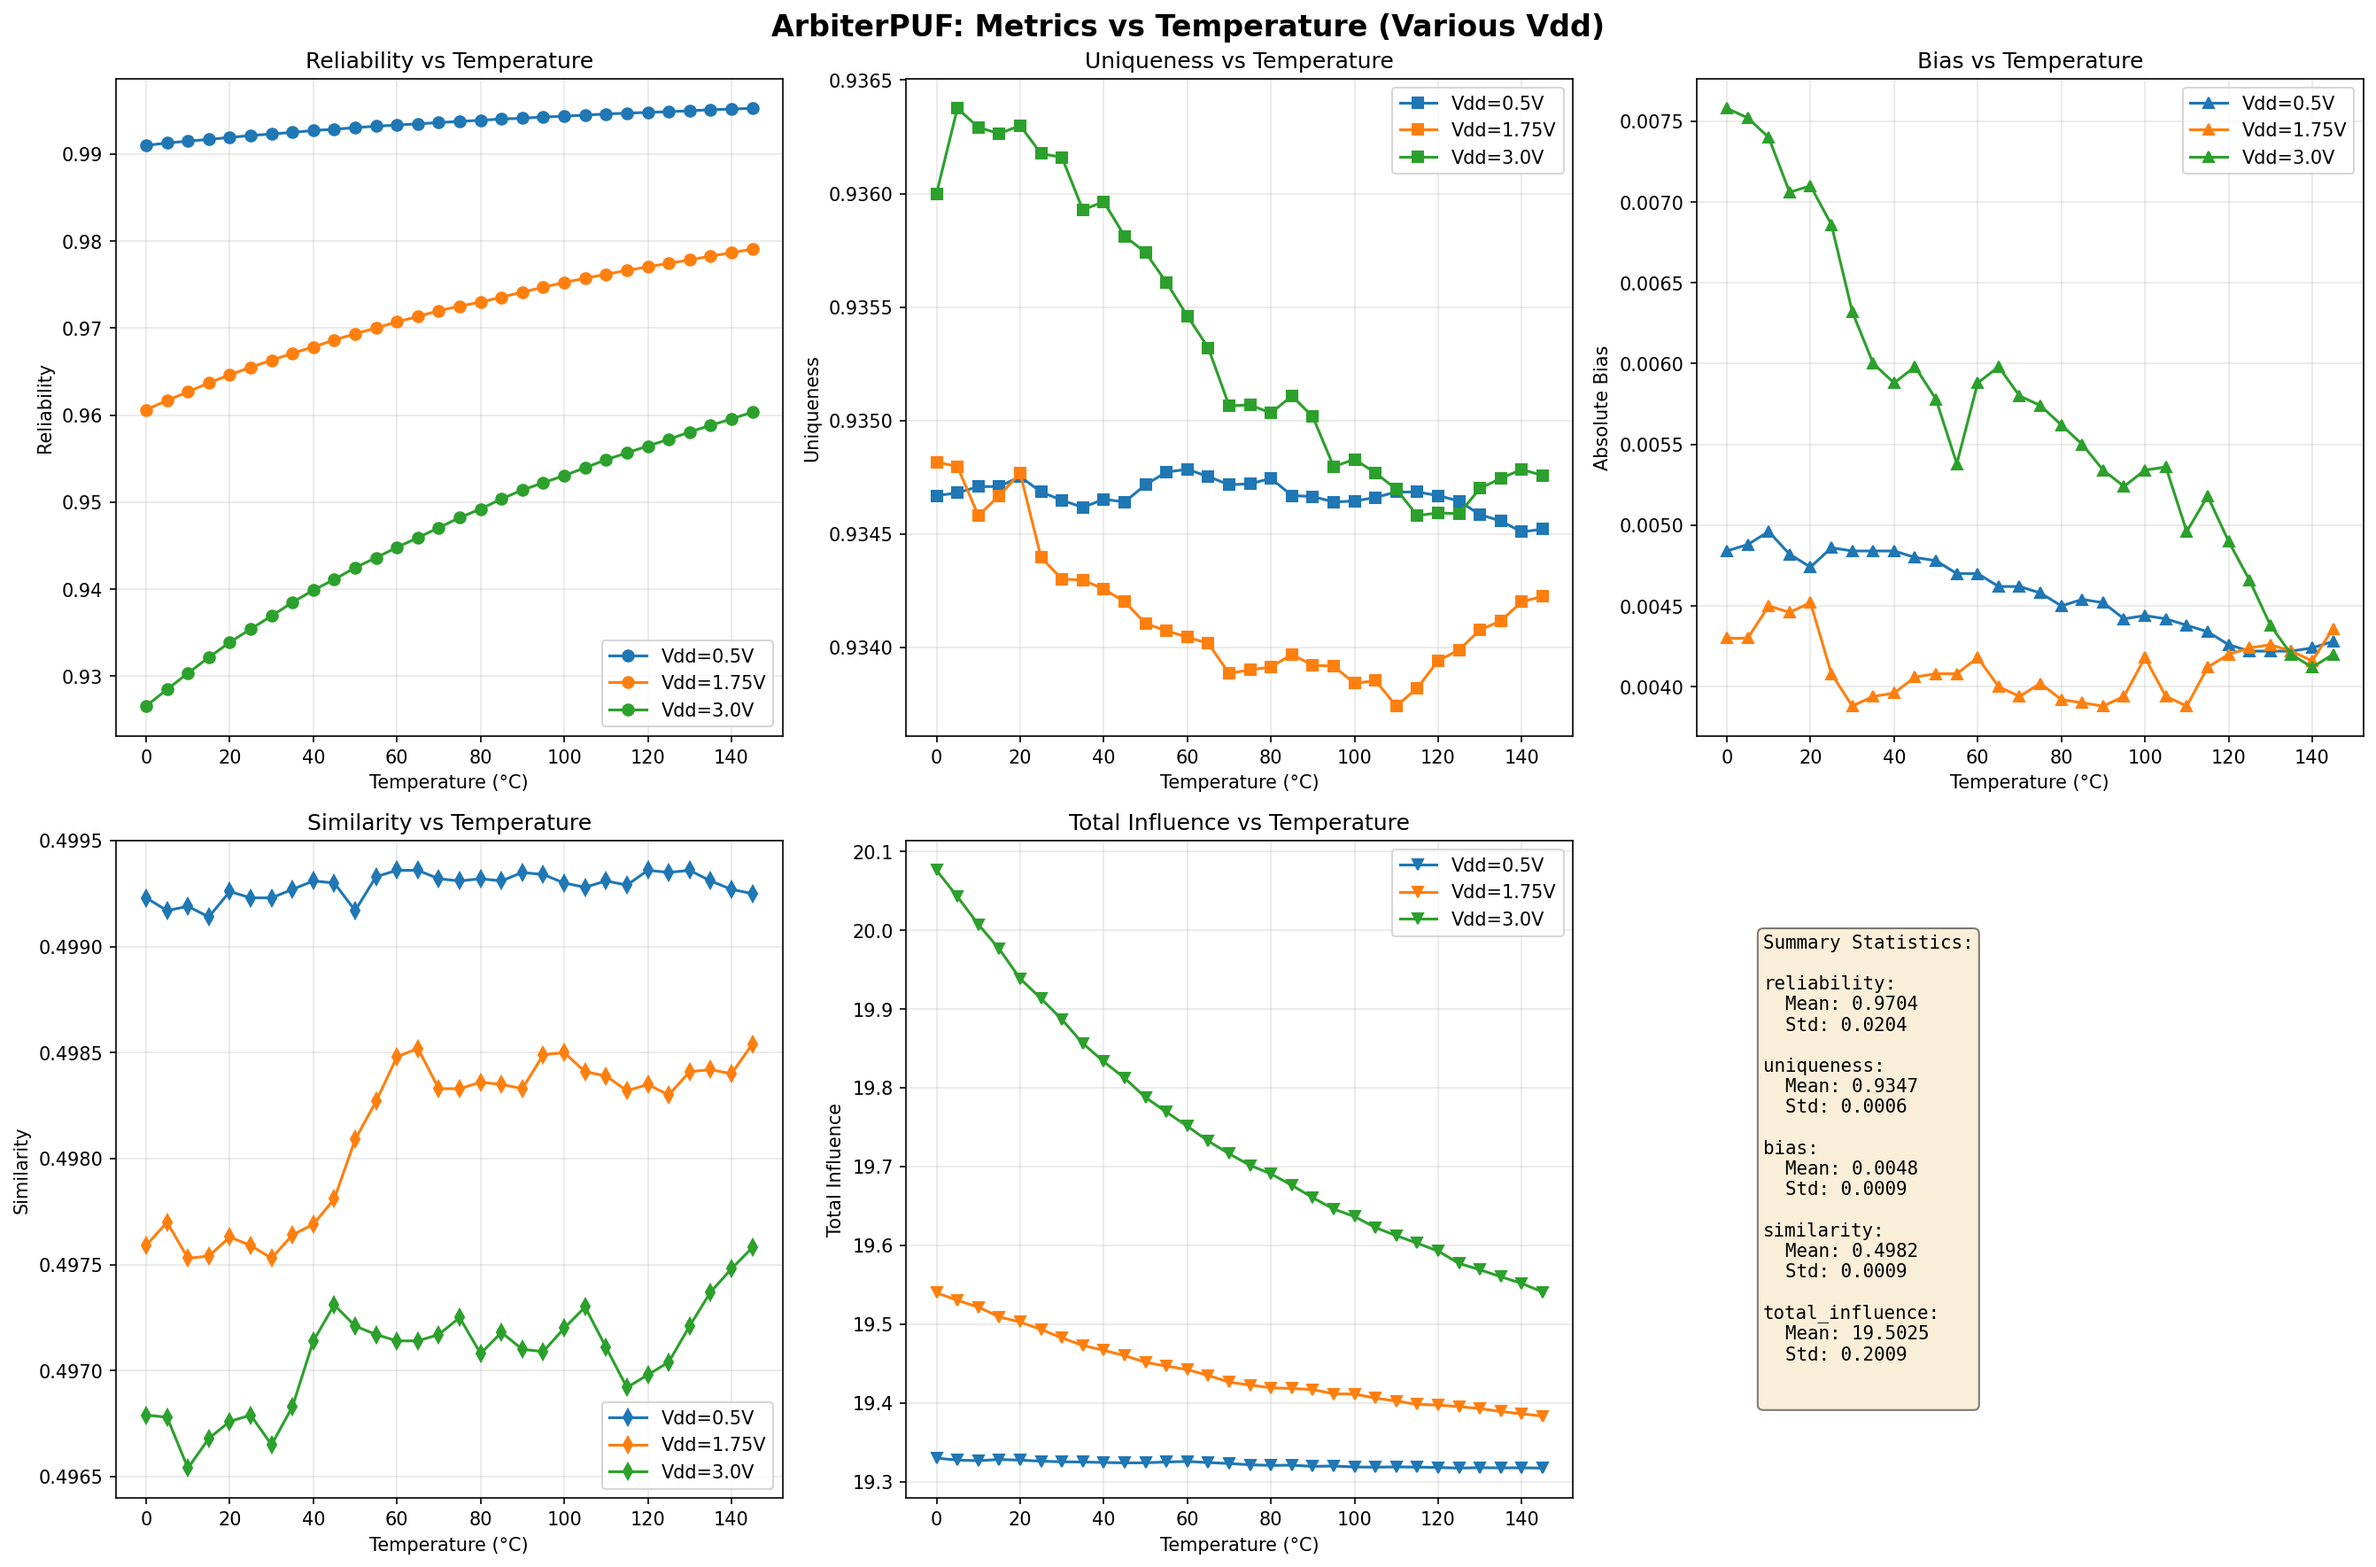
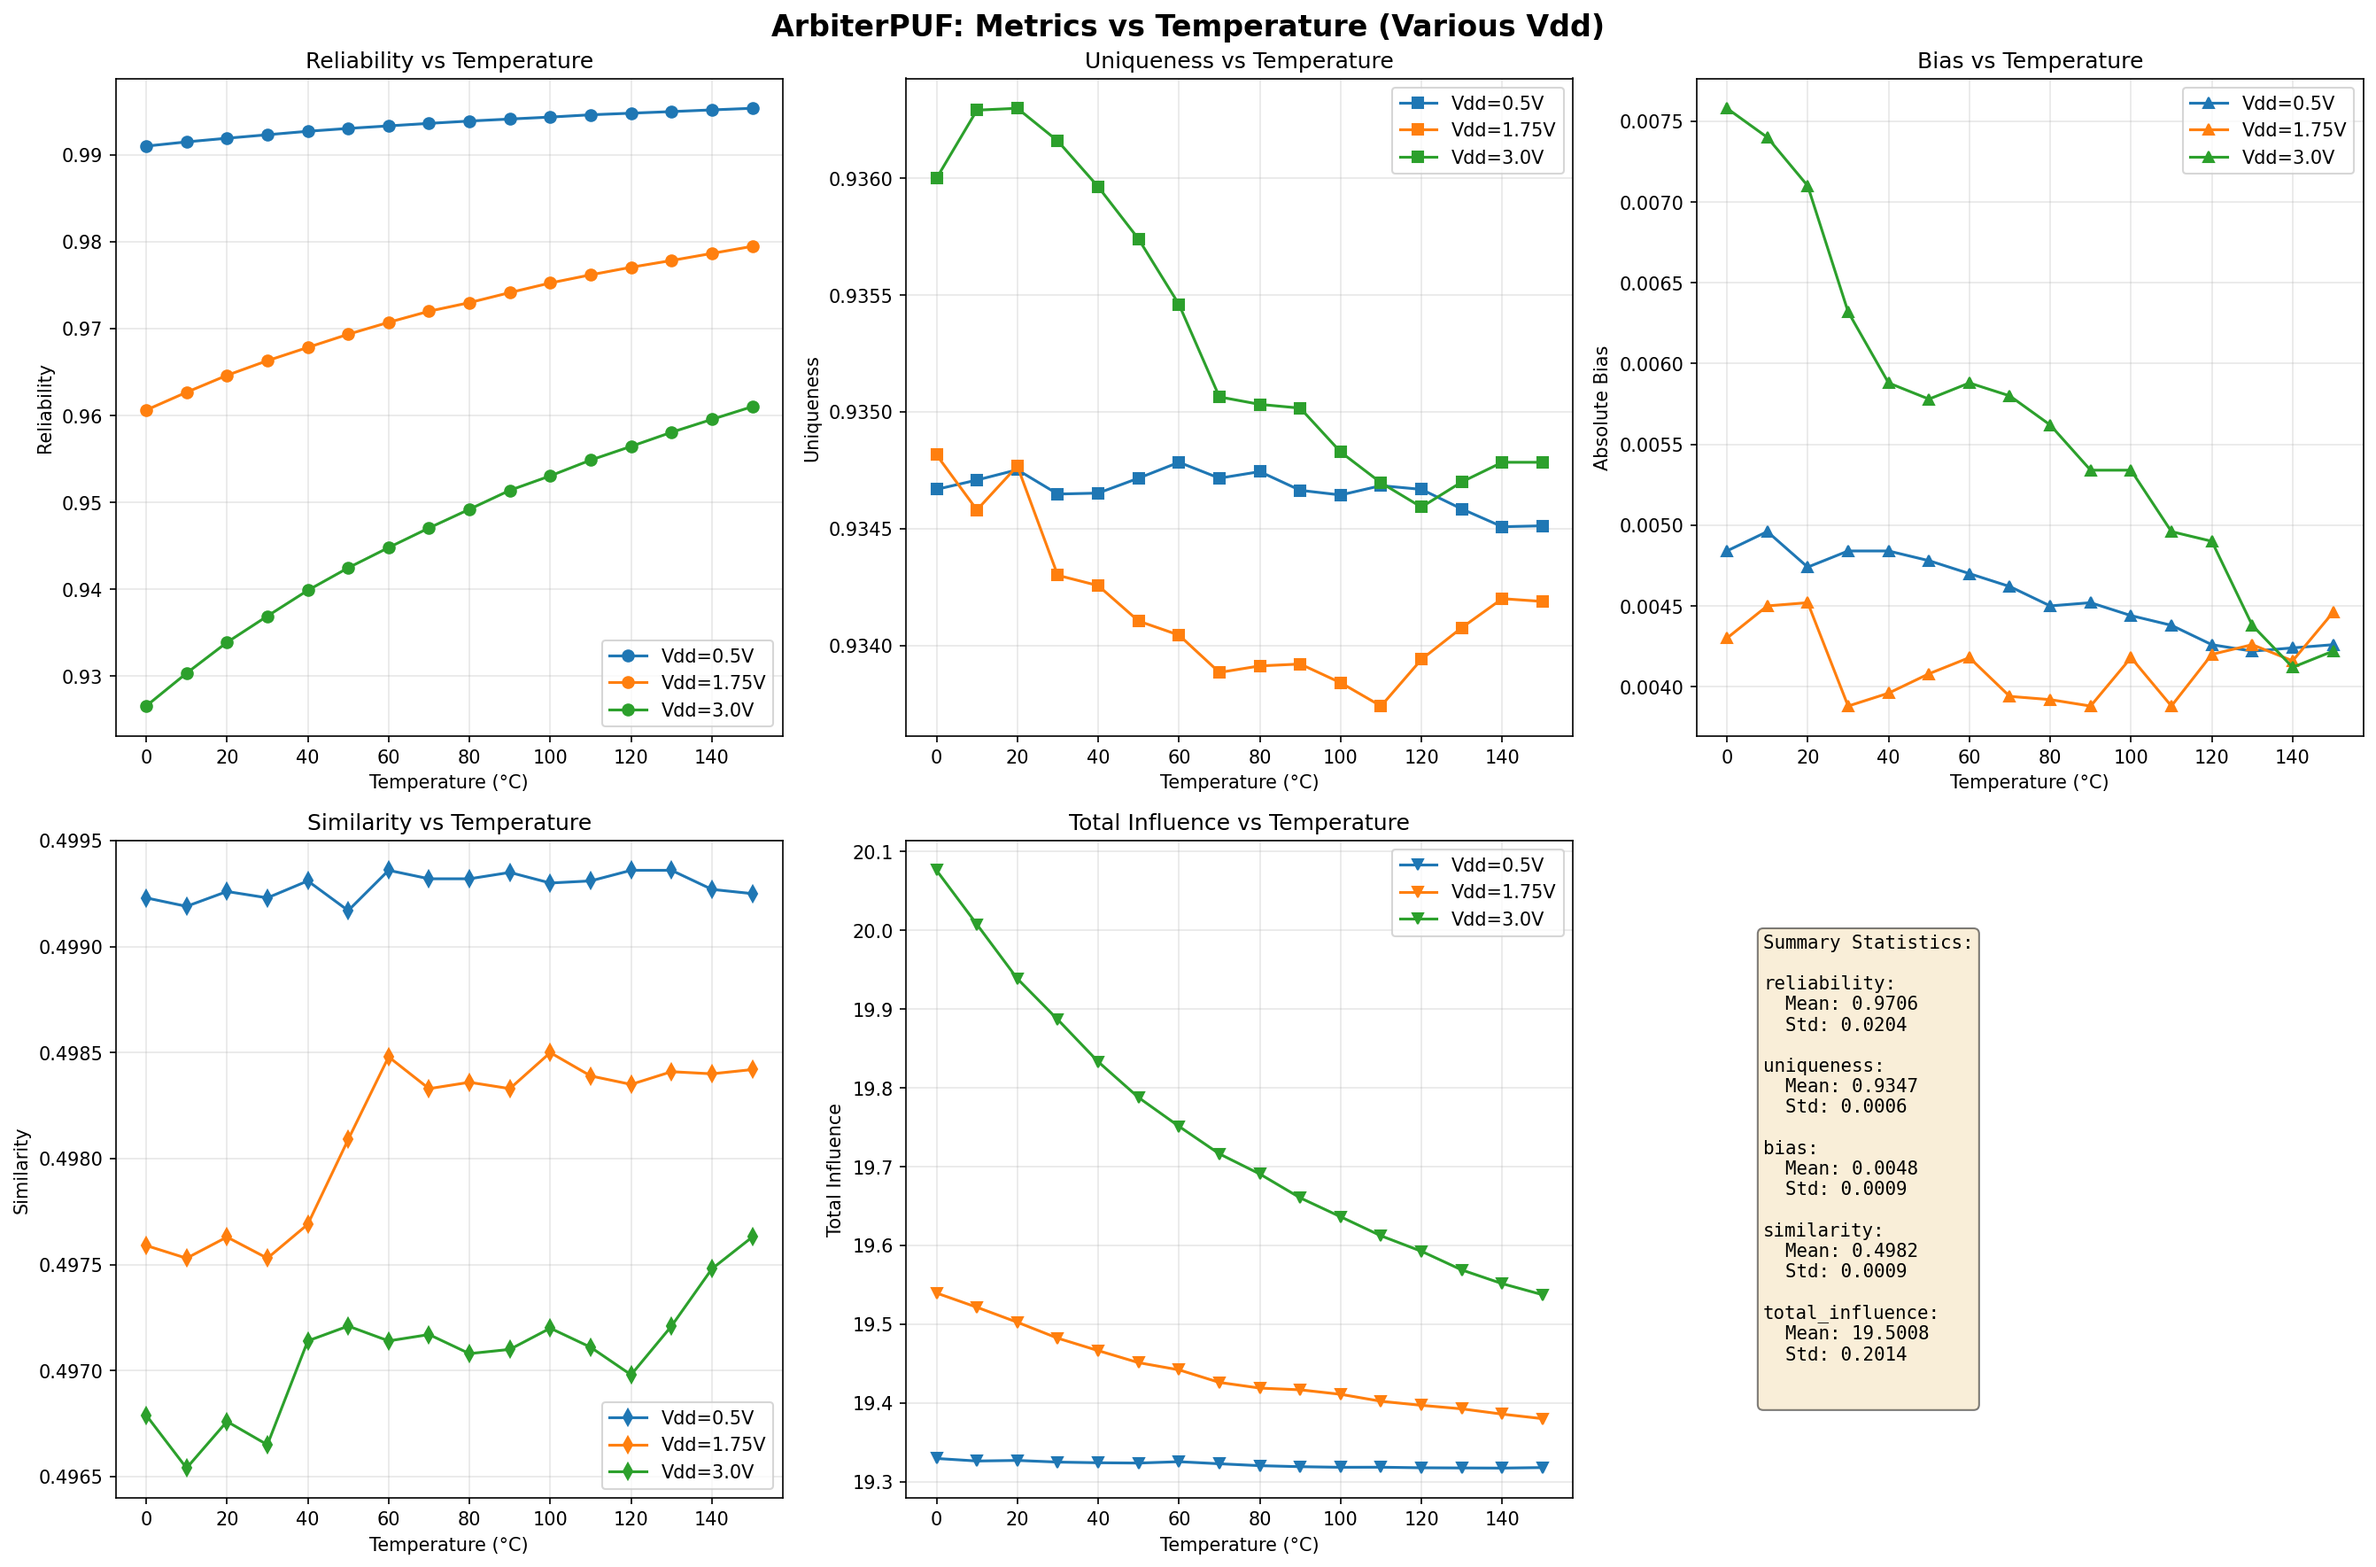
added another function for reliability analysis w/ comparsion to CRP from one specific set at a fixed t and v

diff --git a/verify_reliability_plot.py b/verify_reliability_plot.py
@@ -1,0 +1,65 @@
+
+import numpy as np
+import matplotlib.pyplot as plt
+from pypuf.simulation import ArbiterPUF
+from pypuf.io import ChallengeResponseSet
+from pypuf.metrics import reliability_at_point
+import os
+
+# Ensure the script can find the pypuf module
+# This adds the project root to the Python path
+import sys
+sys.path.insert(0, os.path.abspath(os.path.join(os.path.dirname(__file__), '..')))
+
+
+def main():
+    # 1. Define PUF parameters
+    n_bits = 64
+    temp_fixed = 25.0
+    vdd_nominal = 1.2
+    num_challenges = 1000
+
+    # 2. Generate challenges
+    challenges = np.random.choice([-1, 1], size=(num_challenges, n_bits))
+
+    # 3. Generate reference CRP set at nominal conditions
+    print("Generating reference CRP set...")
+    # By using a fixed seed, we ensure the "golden" PUF is always the same
+    ref_puf = ArbiterPUF(n=n_bits, seed=1, temperature=temp_fixed, vdd=vdd_nominal, noisiness=0.05)
+    ref_crps = ChallengeResponseSet(challenges=challenges, responses=ref_puf.eval(challenges))
+    print("Reference set created.")
+
+    # 4. Define voltage sweep range
+    vdd_sweep = np.round(np.arange(0.8, 1.6, 0.05), 2)
+    reliabilities = []
+
+    # 5. Perform the sweep
+    print("Performing voltage sweep...")
+    for vdd in vdd_sweep:
+        # We use the same seed to ensure we are evaluating the same PUF instance,
+        # only affected by the environmental parameter change.
+        puf_at_point = ArbiterPUF(n=n_bits, seed=1, temperature=temp_fixed, vdd=vdd, noisiness=0.05)
+        
+        # Use the new function to calculate reliability
+        reliability = np.mean(reliability_at_point(puf_at_point, ref_crps))
+        reliabilities.append(reliability)
+        print(f"  Vdd={vdd:.2f} V, Reliability={reliability:.4f}")
+
+    # 6. Plot the results
+    print("Plotting results...")
+    plt.figure(figsize=(10, 6))
+    plt.plot(vdd_sweep, reliabilities, marker='o', linestyle='-')
+    plt.title(f'Reliability vs. Vdd (at T={temp_fixed}°C, n={n_bits})')
+    plt.xlabel('Vdd (V)')
+    plt.ylabel('Reliability')
+    plt.grid(True)
+    plt.ylim(0.9, 1.05)
+    
+    # Save the plot to a file to be displayed
+    plot_filename = 'voltage_sweep_test.png'
+    plt.savefig(plot_filename)
+    print(f"Plot saved to {plot_filename}")
+    plt.close()
+
+if __name__ == "__main__":
+    main()

diff --git a/README.md b/README.md
@@ -1,0 +1,50 @@
+# pypuf-temp
+
+## Overview
+
+This project is based on the original [pypuf](https://github.com/berndpfrommer/pypuf) library, which provides Python implementations and simulation tools for various Physical Unclonable Functions (PUFs), including Arbiter PUFs, XOR Arbiter PUFs, Feed-Forward Arbiter PUFs, and Bistable Ring PUFs. The library is designed for research and educational purposes, enabling users to simulate, analyze, and evaluate the performance of PUF architectures under different environmental conditions.
+
+## Modifications and Enhancements
+
+This fork includes several enhancements and new example scripts for advanced PUF reliability analysis:
+
+- **Fine-grained Environmental Sweeps:** Added scripts to sweep temperature and voltage with fine increments for detailed reliability analysis.
+- **Consistent Reliability Metrics:** Improved reliability calculation logic to ensure fair comparison across different PUF sizes and environmental conditions.
+- **Interactive and High-Resolution Plotting:** Example scripts now support both interactive plotting (for use in Spyder/Jupyter) and high-resolution image saving for publication-quality figures.
+- **Seed and Challenge Control:** Ensured reproducibility by fixing seeds and using consistent challenge sets for all sweeps.
+- **Batch Analysis:** Example scripts can analyze multiple PUF sizes (n) in a single run, producing comparative plots.
+
+## Example Files in `USE_CASE` Folder
+
+The `USE_CASE` folder contains example scripts demonstrating advanced analysis and usage of the library:
+
+- **PUF_performance_reliability_architechtures.py**
+  - Analyzes reliability of ArbiterPUF for different numbers of challenge bits (n) under voltage and temperature sweeps.
+  - Supports interactive plotting for visual analysis and high-resolution saving for publication.
+  - Uses fixed seeds and consistent challenge sets for fair comparison.
+
+- **PUF_performance_reliability.py**
+  - Provides additional reliability and bias analysis for various PUF architectures (Arbiter, XOR, FeedForward, etc.).
+  - Includes both voltage and temperature sweep modes, with CSV export for further analysis.
+
+- **try.py / try.ipynb**
+  - Quick test scripts and notebooks for experimenting with PUF instantiation, evaluation, and plotting.
+
+## Usage
+
+1. Install dependencies from `requirements.txt`.
+2. Run example scripts from the `USE_CASE` folder:
+   ```bash
+   python PUF_performance_reliability_architechtures.py
+   # or
+   python PUF_performance_reliability.py
+   ```
+3. For interactive analysis, open the scripts in Spyder or Jupyter and use the provided plotting functions.
+
+## Acknowledgements
+
+Original library by Bernd Pfrommer and contributors. See `LICENSE.txt` for details.
+
+---
+
+For more details, see the original [pypuf documentation](https://github.com/berndpfrommer/pypuf) and the example scripts in the `USE_CASE` folder.
